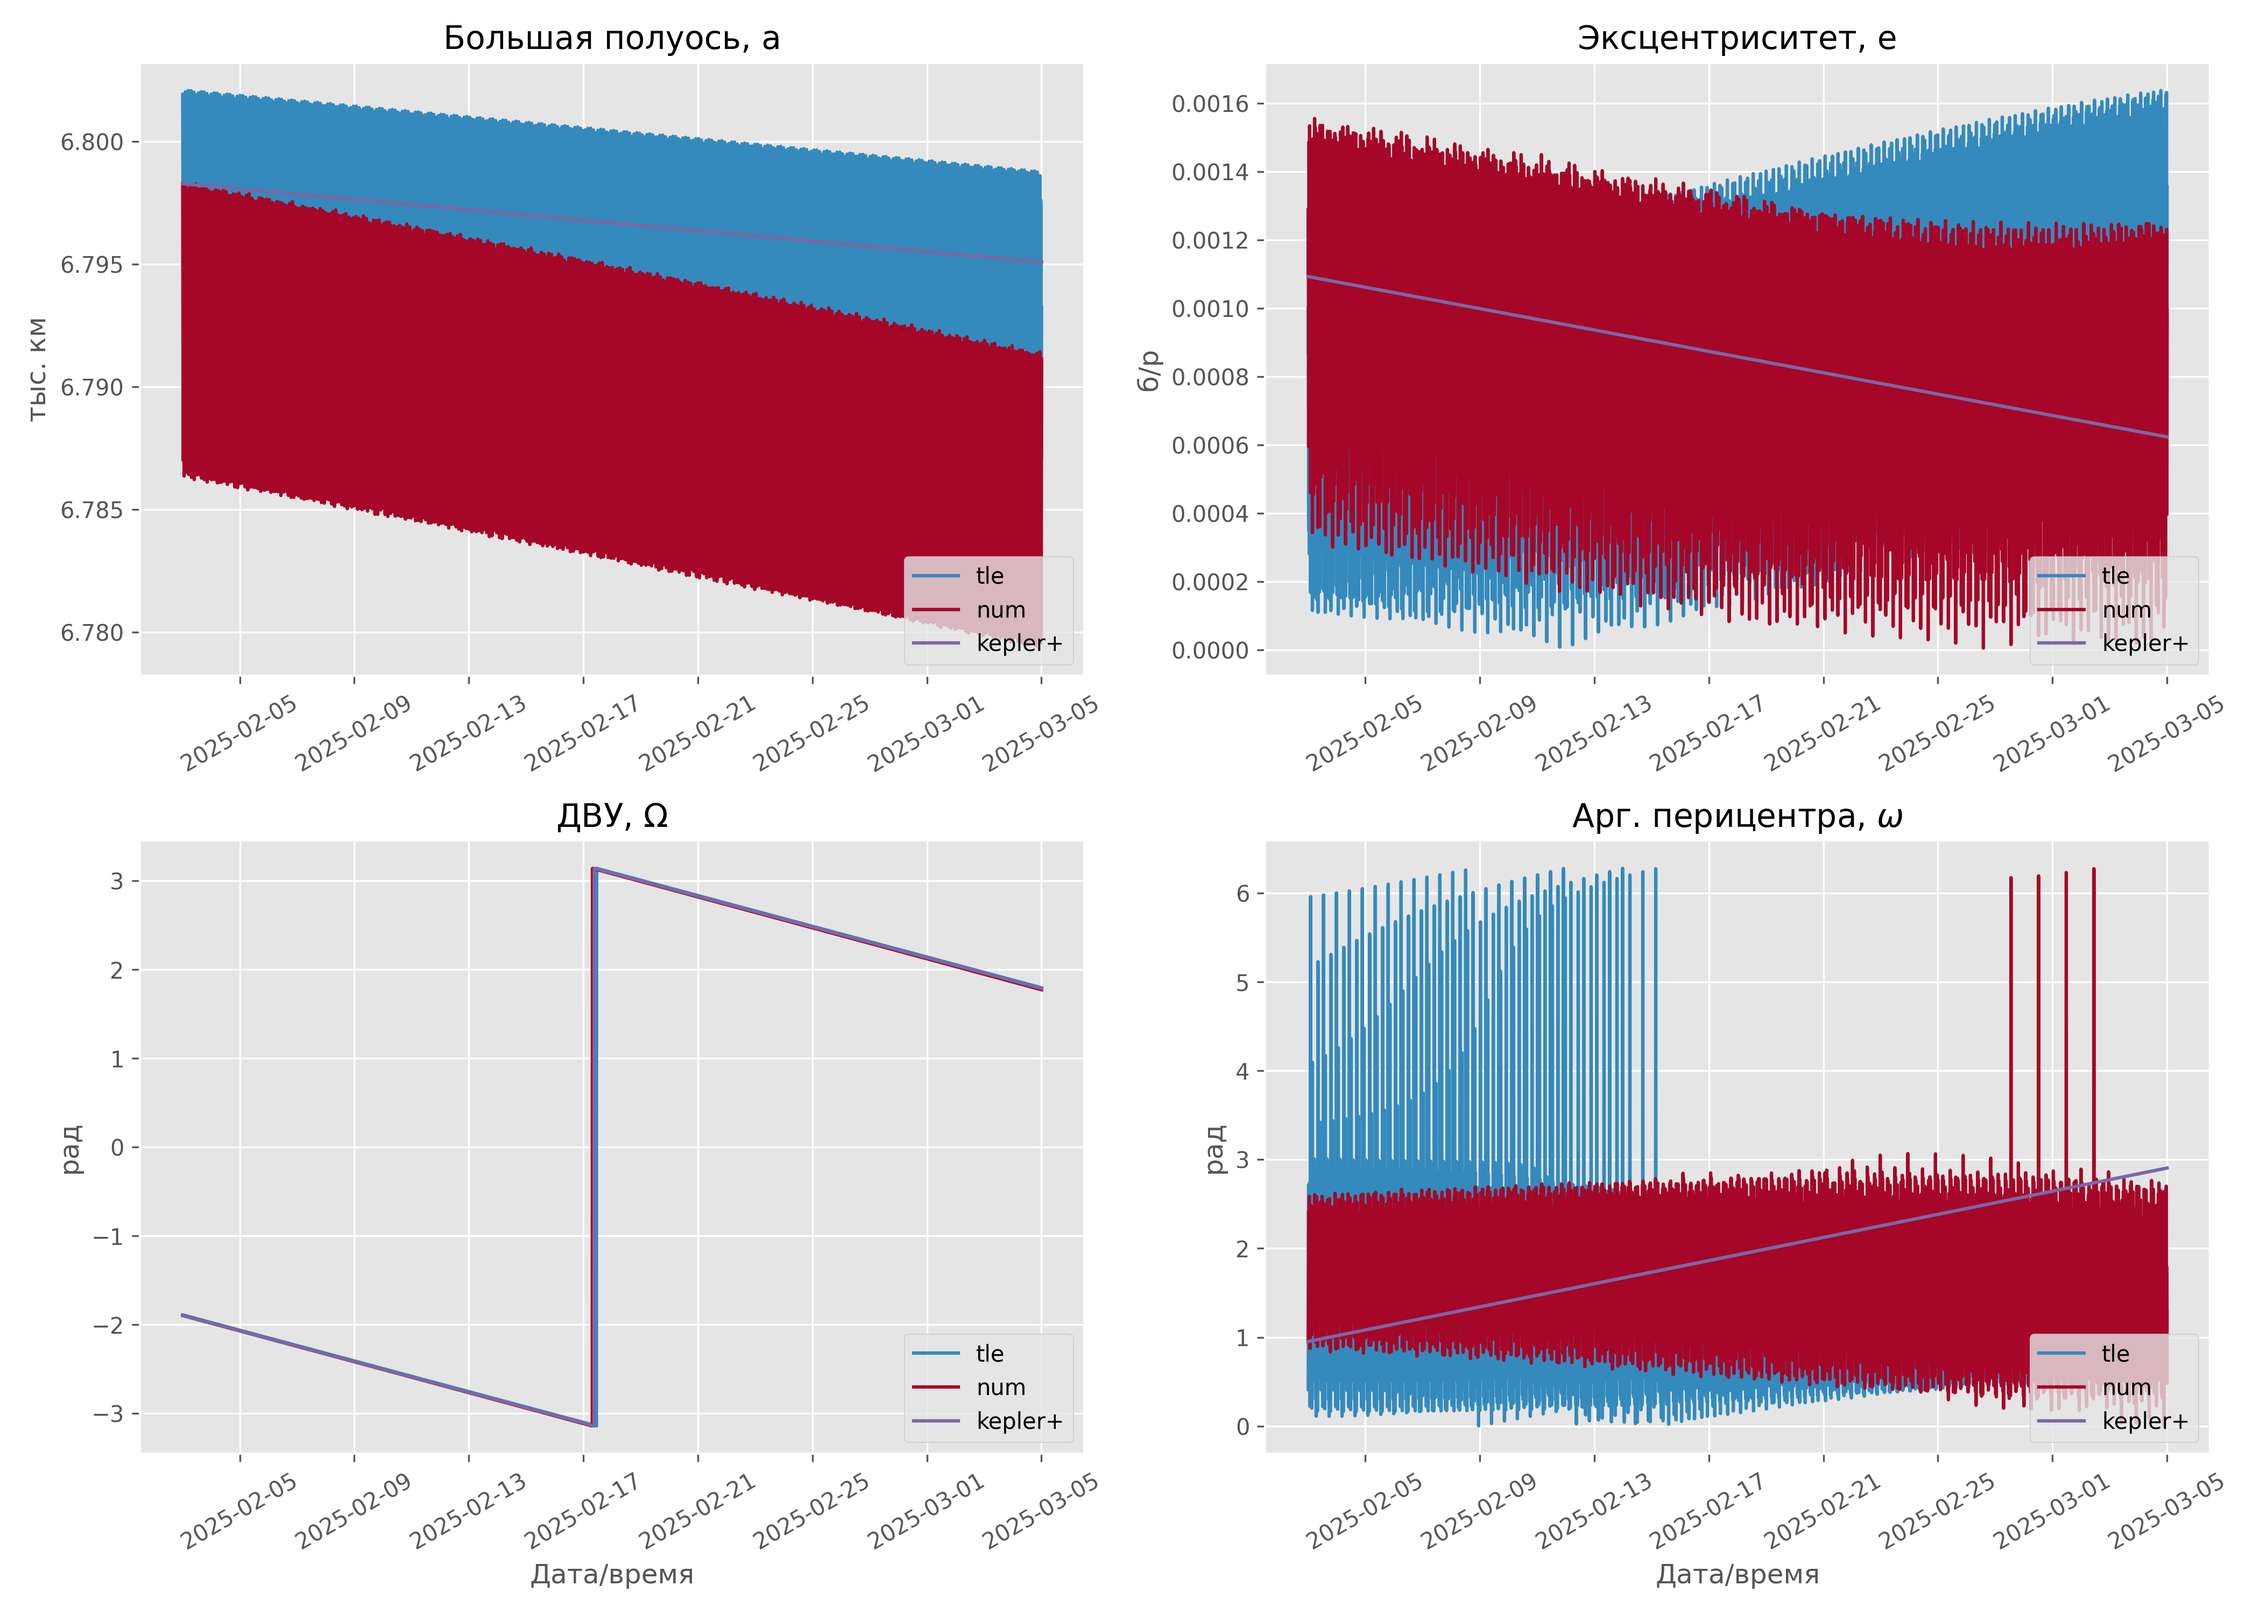
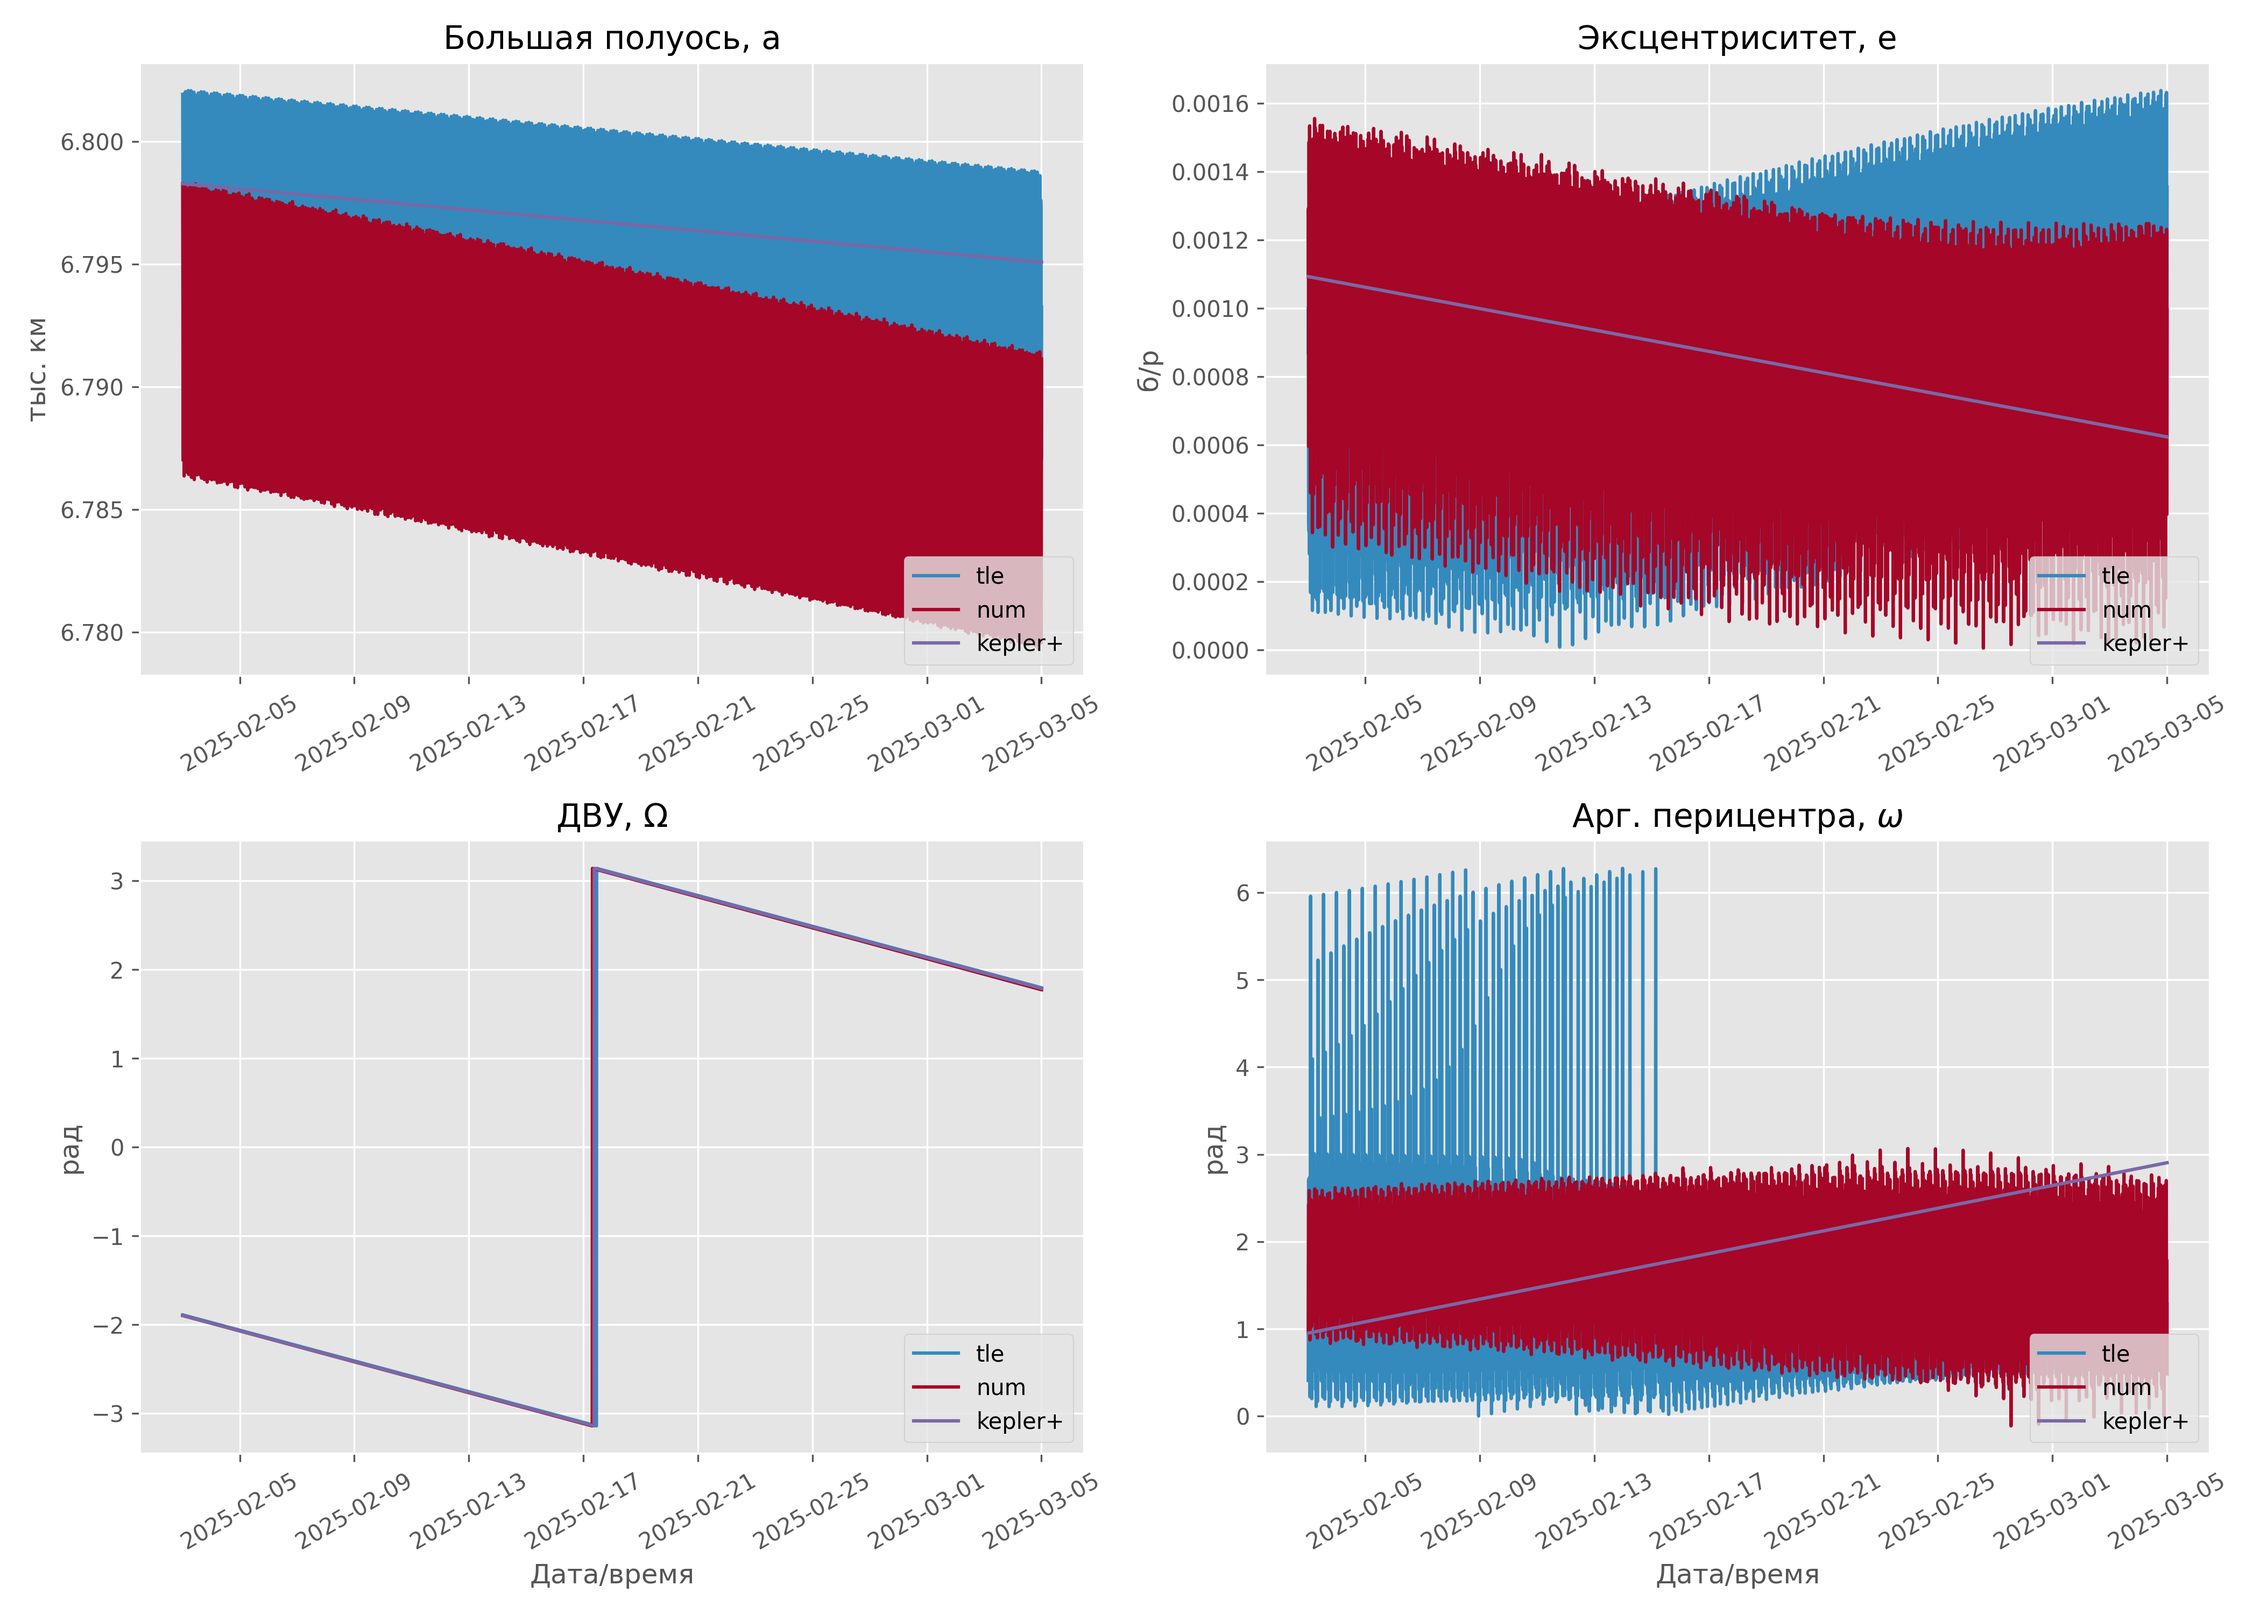
Update of the second problem

Changed region(s): [[0.5614, 0.775, 0.9357, 0.899], [0.5926, 0.558, 0.9669, 0.775]]

diff --git a/Lab2.py b/Lab2.py
@@ -214,6 +214,9 @@ def wrap_to_pi(deg_arr):
 def wrap_to_2pi(deg_arr):
     return np.radians(deg_arr) % (2 * np.pi)
 
+def unwrap_rad(deg_arr):
+    return np.unwrap(np.radians(deg_arr))
+
 # [1, 0] ДВУ (в радианах, от -pi до pi)
 axs[1, 0].plot(dates, wrap_to_pi(results_sgp[:, 2]), label=labels[0], color=colors[0])
 axs[1, 0].plot(dates, wrap_to_pi(results_num[:, 2]), label=labels[1], color=colors[1])
@@ -221,10 +224,12 @@ axs[1, 0].plot(dates, wrap_to_pi(results_kp[:, 2]),  label=labels[2], color=colo
 axs[1, 0].set_title('ДВУ, $\Omega$')
 axs[1, 0].set_ylabel('рад')
 
-# [1, 1] Арг. перицентра (в радианах, от 0 до 2pi)
+# [1, 1] Арг. перицентра (в радианах)
+# tle оставляем со скачками как на оригинальной картинке
 axs[1, 1].plot(dates, wrap_to_2pi(results_sgp[:, 3]), label=labels[0], color=colors[0])
-axs[1, 1].plot(dates, wrap_to_2pi(results_num[:, 3]), label=labels[1], color=colors[1])
-axs[1, 1].plot(dates, wrap_to_2pi(results_kp[:, 3]),  label=labels[2], color=colors[2])
+# num и kepler+ сглаживаем, чтобы убрать красные пики-прострелы
+axs[1, 1].plot(dates, unwrap_rad(results_num[:, 3]), label=labels[1], color=colors[1])
+axs[1, 1].plot(dates, unwrap_rad(results_kp[:, 3]),  label=labels[2], color=colors[2])
 axs[1, 1].set_title('Арг. перицентра, $\omega$')
 axs[1, 1].set_ylabel('рад')
 
